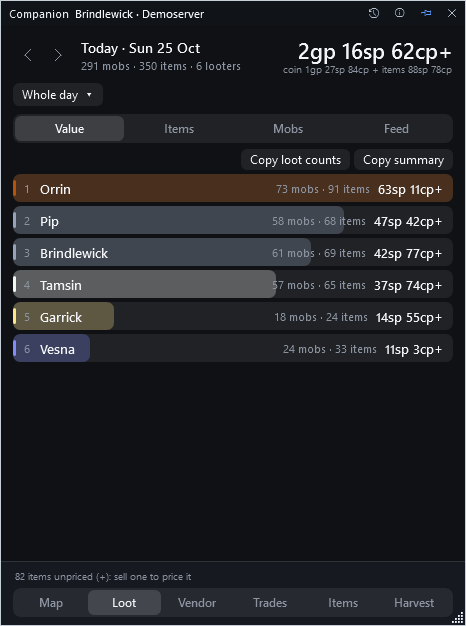
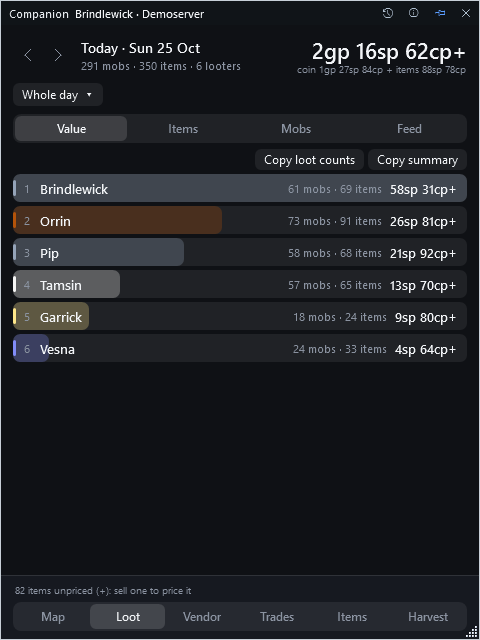
Coin: count a purse for its looter only when it wasn't split
A purse line carries d12 (the whole purse), d14 (npc_corpse = the looter kept it,
party_split = their autosplit divided it) and, for a split one, d15 (the ledger owner's
share). The group's coin stays every purse once, whole. A purse that wasn't split counts,
whole, for whoever looted it; a split one counts for no looter (they kept only part and the
ledger never says how much), and the owner's own share counts for the owner, even one who
looted nothing. Mobs and the community numbers keep the whole purse (what a monster drops).
Merged characters each get their own share. The feed and tooltips say when a purse was split.
Checked against a real day: the group total matched an independent calculation exactly.

diff --git a/src/MnMCompanion.Core/Loot/LootSummary.cs b/src/MnMCompanion.Core/Loot/LootSummary.cs
@@ -6,15 +6,21 @@ namespace MnMCompanion.Loot;
 /// <summary>An item and how many of it.</summary>
 public sealed record ItemCount(string Item, int Count);
 
-/// <summary>What one looter took: <see cref="Items"/> items, the <see cref="Copper"/> in the purses they looted, and from how many mobs.</summary>
-public sealed record PlayerLoot(string Who, bool You, int Mobs, int Items, long Copper, IReadOnlyList<ItemCount> Taken);
+/// <summary>
+/// What one person took: <see cref="Items"/> items from how many mobs, and the coin counted for them, <see cref="Copper"/>: the purses they looted that
+/// were not divided (whole), plus, for a ledger's owner, the shares of divided purses that reached them (<see cref="Received"/>). A divided purse is not
+/// counted for whoever looted it, since they kept only part and the ledger never says how much. <see cref="Purses"/> is the whole of every purse they
+/// looted and <see cref="SplitPurses"/> how many of those were divided.
+/// </summary>
+public sealed record PlayerLoot(string Who, bool You, int Mobs, int Items, long Copper, IReadOnlyList<ItemCount> Taken,
+    long Purses = 0, long Received = 0, int SplitPurses = 0);
 
 /// <summary>
 /// One corpse one looter took from: the coin and the items, which the ledger gives in separate rows. <see cref="Source"/> is as
 /// the ledger names it ("a Dustrend legionary", "your corpse"); <see cref="Mob"/> is false for a player's corpse.
 /// </summary>
 public sealed record LootedCorpse(string Who, bool You, string Source, bool Mob, DateTime Start, int Items, long Copper, long Split,
-    IReadOnlyList<ItemCount>? Taken = null, string Zone = "");
+    IReadOnlyList<ItemCount>? Taken = null, string Zone = "", bool Shared = false);
 
 /// <summary>One item and who took how many of it.</summary>
 public sealed record ItemTakers(string Item, int Count, IReadOnlyList<(string Who, int Count)> By);
@@ -51,10 +57,10 @@ public static class LootSummary
             v.Last = e.Time;
             v.You |= e.You;
             if (e.Kind == LootKind.Item) { v.Items += e.Count; v.Taken[e.Item] = v.Taken.GetValueOrDefault(e.Item) + e.Count; }
-            else { v.HasPurse = true; v.Copper += e.Copper; v.Split += e.Split; }
+            else { v.HasPurse = true; v.Copper += e.Copper; v.Split += e.Split; v.Shared |= e.Shared; }
         }
         return visits.Select(v => new LootedCorpse(v.Who, v.You, v.Source, IsMob(v.Source), v.Start, v.Items, v.Copper, v.Split,
-            v.Taken.Select(t => new ItemCount(t.Key, t.Value)).ToList(), v.Zone)).ToList();
+            v.Taken.Select(t => new ItemCount(t.Key, t.Value)).ToList(), v.Zone, v.Shared)).ToList();
     }
 
     /// <summary>Your own corpse and other players' ("Brom's corpse") aren't mobs.</summary>
@@ -64,7 +70,7 @@ public static class LootSummary
     private sealed class Visit
     {
         public string Who = "", Source = "", Zone = "";
-        public bool You, HasPurse;
+        public bool You, HasPurse, Shared;
         public DateTime Start, Last;
         public int Items;
         public long Copper, Split;
@@ -106,18 +112,32 @@ public static class LootSummary
                 p.Items += e.Count;
                 p.Taken[e.Item] = p.Taken.GetValueOrDefault(e.Item) + e.Count;
             }
-            else p.Copper += e.Copper;
+            else
+            {
+                // A purse the looter's autosplit divided isn't theirs whole: it counts for the group, not for them
+                p.Purses += e.Copper;
+                if (e.Shared) p.SplitPurses++;
+                else p.Kept += e.Copper;
+            }
+            // The only share of a divided purse a ledger shows is its owner's own: that is what they were handed
+            foreach (var share in e.Shares ?? Array.Empty<ShareTo>())
+            {
+                if (!map.TryGetValue(share.Owner, out var owner)) map[share.Owner] = owner = new Looter();
+                owner.You = true;
+                owner.Received += share.Copper;
+            }
         }
-        return map.Select(kv => new PlayerLoot(kv.Key, kv.Value.You, kv.Value.Mobs, kv.Value.Items, kv.Value.Copper,
-                kv.Value.Taken.OrderByDescending(t => t.Value).ThenBy(t => t.Key, StringComparer.OrdinalIgnoreCase).Select(t => new ItemCount(t.Key, t.Value)).ToList()))
+        return map.Select(kv => new PlayerLoot(kv.Key, kv.Value.You, kv.Value.Mobs, kv.Value.Items, kv.Value.Kept + kv.Value.Received,
+                kv.Value.Taken.OrderByDescending(t => t.Value).ThenBy(t => t.Key, StringComparer.OrdinalIgnoreCase).Select(t => new ItemCount(t.Key, t.Value)).ToList(),
+                kv.Value.Purses, kv.Value.Received, kv.Value.SplitPurses))
             .OrderByDescending(p => p.Mobs).ThenByDescending(p => p.Items).ThenByDescending(p => p.Copper).ThenBy(p => p.Who, StringComparer.OrdinalIgnoreCase).ToList();
     }
 
     private sealed class Looter
     {
         public bool You;
-        public int Mobs, Items;
-        public long Copper;
+        public int Mobs, Items, SplitPurses;
+        public long Kept, Purses, Received;
         public readonly Dictionary<string, int> Taken = new(StringComparer.OrdinalIgnoreCase);
     }
 
@@ -155,7 +175,7 @@ public static class LootSummary
     public static string Describe(LootEvent e) => e.Kind switch
     {
         LootKind.Item => $"[{e.Item}]{(e.Count > 1 ? $" x{e.Count}" : "")}  from {e.Source}",
-        _ => $"{Coin(e.Copper)}  from {e.Source}{(e.Split > 0 ? $"  (split {Coin(e.Split)})" : "")}",
+        _ => $"{Coin(e.Copper)}  from {e.Source}{(e.Shared ? (e.Split > 0 ? $"  (split; your share {Coin(e.Split)})" : "  (split)") : "")}",
     };
 
     /// <summary>One item as a single line for the clipboard: "Rusty Iron Mace ×3  ·  looted by 2 people (Fenwick 2, Aldric)  ·  ~1sp each  ·  ~3sp".</summary>

diff --git a/tests/MnMCompanion.Tests/CoinSplitTests.cs b/tests/MnMCompanion.Tests/CoinSplitTests.cs
@@ -1,0 +1,103 @@
+using MnMCompanion.Ledger;
+using MnMCompanion.Loot;
+using static MnMCompanion.Tests.Fixture;
+
+namespace MnMCompanion.Tests;
+
+/// <summary>
+/// Who a coin purse counts for. A purse the looter kept (<c>npc_corpse</c>) is theirs whole. One the looter's autosplit divided (<c>party_split</c>)
+/// is not: they kept only part, and a ledger shows only its own owner's share (<c>d15</c>), never anyone else's. The group's total is always the
+/// whole purse (<c>d12</c>), counted once.
+/// </summary>
+public class CoinSplitTests
+{
+    private static readonly DateTime T = new(2026, 10, 25, 12, 0, 0, DateTimeKind.Local);
+    private static readonly DateOnly Day = DateOnly.FromDateTime(T);
+
+    private static List<LootEvent> Rows(params string[] rows) => LootExtractor.Extract(Parse(File(rows), LedgerFileKind.Social));
+
+    [Fact]
+    public void A_purse_that_was_not_split_is_counted_whole_for_whoever_looted_it()
+    {
+        var day = LootDay.Of(Day, Rows(Purse(T, "Brom", "Aldric", "a rat", "0,0,0,50")));
+
+        Assert.Equal(50, day.Members.Single(m => m.Name == "Brom").Copper);
+        Assert.Equal(50, day.Totals.Copper);
+        Assert.False(Assert.Single(day.Events).Shared);
+    }
+
+    [Fact]
+    public void A_split_purse_is_not_counted_for_its_looter_but_the_group_still_earned_all_of_it()
+    {
+        var day = LootDay.Of(Day, Rows(Purse(T, "Brom", "Aldric", "a rat", "0,0,1,0", split: "0,0,0,15")));   // 1 silver = 100 copper, your share 15
+
+        var brom = day.Members.Single(m => m.Name == "Brom");
+        Assert.Equal(0, brom.Copper);               // not counted for him: he kept only part and the ledger doesn't say how much
+        Assert.Equal(1, brom.SplitPurses);
+        Assert.Equal(100, brom.Purses);             // but the purses he looted held 100
+        Assert.Equal(15, brom.Split);               // and 15 of them reached you
+        Assert.Equal(100, day.Totals.Copper);       // what the group earned: the whole purse (d12)
+        Assert.Equal(100, day.Total);
+        Assert.Equal(15, day.Totals.Share);
+        Assert.True(Assert.Single(day.Events).Shared);
+    }
+
+    [Fact]
+    public void Your_share_of_a_split_purse_is_counted_for_you_even_if_you_looted_nothing()
+    {
+        var day = LootDay.Of(Day, Rows(Purse(T, "Brom", "Aldric", "a rat", "0,0,1,0", split: "0,0,0,15")));
+
+        var you = day.Members.Single(m => m.Name == "Aldric");
+        Assert.True(you.You);
+        Assert.Equal(15, you.Copper);
+        Assert.Equal(15, you.Received);
+        Assert.Equal(0, you.Mobs);
+    }
+
+    [Fact]
+    public void Your_own_whole_purses_and_your_shares_add_up_and_the_ranking_follows_what_was_counted()
+    {
+        var day = LootDay.Of(Day, Rows(
+            Purse(T, "Brom", "Aldric", "a rat", "0,0,1,0", split: "0,0,0,15"),
+            Purse(T.AddSeconds(30), "Aldric", "Aldric", "a rat", "0,0,0,30"),
+            Purse(T.AddSeconds(60), "Pip", "Aldric", "a rat", "0,0,0,40")));
+
+        Assert.Equal(45, day.Members.Single(m => m.Name == "Aldric").Copper);   // 30 kept whole + 15 share
+        Assert.Equal(["Aldric", "Pip", "Brom"], day.Members.Select(m => m.Name));   // 45, 40, 0: by what was counted for each
+        Assert.Equal(170, day.Totals.Copper);                                      // 100 + 30 + 40, each purse once
+    }
+
+    [Fact]
+    public void A_mobs_coin_and_a_looters_coin_a_mob_are_the_whole_purse_whoever_kept_it()
+    {
+        var day = LootDay.Of(Day, Rows(Purse(T, "Brom", "Aldric", "a rat", "0,0,1,0", split: "0,0,0,15")));
+
+        Assert.Equal(100, day.Mobs.Single().Copper);
+        Assert.Equal(100, day.Members.Single(m => m.Name == "Brom").CopperPerMob);
+    }
+
+    [Fact]
+    public void When_two_of_your_characters_saw_the_same_split_purse_each_is_credited_its_own_share_and_the_purse_counts_once()
+    {
+        var aldric = Rows(Purse(T, "Brom", "Aldric", "a rat", "0,0,1,0", split: "0,0,0,15"));
+        var wendell = Rows(Purse(T, "Brom", "Wendell", "a rat", "0,0,1,0", split: "0,0,0,20"));
+
+        var day = LootDay.Of(Day, LootMerge.Combine([aldric, wendell]));
+
+        Assert.Equal(15, day.Members.Single(m => m.Name == "Aldric").Copper);
+        Assert.Equal(20, day.Members.Single(m => m.Name == "Wendell").Copper);
+        Assert.Equal(0, day.Members.Single(m => m.Name == "Brom").Copper);
+        Assert.Equal(100, day.Totals.Copper);   // one purse, not two
+        Assert.Equal(35, day.Totals.Share);
+    }
+
+    [Fact]
+    public void The_feed_says_when_a_purse_was_split_and_what_your_share_was()
+    {
+        var split = Assert.Single(Rows(Purse(T, "Brom", "Aldric", "a rat", "0,0,1,0", split: "0,0,0,15")));
+        var whole = Assert.Single(Rows(Purse(T, "Brom", "Aldric", "a rat", "0,0,0,50")));
+
+        Assert.Contains("(split; your share 15cp)", LootSummary.Describe(split));
+        Assert.DoesNotContain("split", LootSummary.Describe(whole));
+    }
+}

diff --git a/src/MnMCompanion/LootPanel.cs b/src/MnMCompanion/LootPanel.cs
@@ -136,7 +136,7 @@ internal sealed class LootPanel : Border, IMiniPage
         _title.Text = day == Today ? $"Today · {day.ToString("ddd d MMM", CultureInfo.CurrentCulture)}" : day.ToString("ddd d MMM yyyy", CultureInfo.CurrentCulture);
         _sub.Text = $"{Plural(totals.Mobs, "mob")} · {Plural(totals.Items, "item")} · {Plural(d.Members.Count, "looter")}";
         _big.Text = LootSummary.Worth(d.Total, d.Approximate, d.Unpriced > 0);
-        _big.ToolTip = $"Coin {LootSummary.Coin(totals.Copper)} plus what a vendor would pay for the items: {LootSummary.Worth(d.ItemValue, d.Approximate, d.Unpriced > 0)}" + Environment.NewLine +
+        _big.ToolTip = $"Coin {LootSummary.Coin(totals.Copper)} (every purse counted once, whole) plus what a vendor would pay for the items: {LootSummary.Worth(d.ItemValue, d.Approximate, d.Unpriced > 0)}" + Environment.NewLine +
                        $"{d.Priced:N0} items priced from your vendor sales, {d.Estimated:N0} valued by their family (~), {d.Unpriced:N0} with no known price (not counted, +)" +
                        (totals.Share > 0 ? Environment.NewLine + $"{LootSummary.Coin(totals.Share)} of the purses reached you as splits" : "");
         _caption.Text = $"coin {LootSummary.Coin(totals.Copper)} + items {LootSummary.Worth(d.ItemValue, d.Approximate, false)}";
@@ -211,7 +211,10 @@ internal sealed class LootPanel : Border, IMiniPage
                 m.Unpriced > 0 ? $"{Plural(m.Unpriced, "item")} with no known price are not counted" : "",
                 m.Estimated > 0 ? $"{Plural(m.Estimated, "item")} valued by their family (~)" : "",
                 m.Mobs > 0 ? $"{LootSummary.Coin((long)m.CopperPerMob)} coin a mob, {m.ItemsPerMob:0.0} items a mob" : "",
-                m.Split > 0 ? $"{LootSummary.Coin(m.Split)} of their purses reached you" : "", "Click for their items and mobs",
+                m.Split > 0 ? $"{LootSummary.Coin(m.Split)} of their purses reached you" : "",
+                m.Received > 0 ? $"{LootSummary.Coin(m.Received)} reached you as splits (counted for you)" : "",
+                m.SplitPurses > 0 ? $"{Plural(m.SplitPurses, "purse")} they looted {(m.SplitPurses == 1 ? "was" : "were")} split: what each member got isn't in the ledger, so that coin isn't counted for them" : "",
+                "Click for their items and mobs",
             }.Where(s => s.Length > 0));
             _body.Children.Add(Row(++rank, m.Name, $"{m.Mobs} mobs · {m.Items} items", LootSummary.Worth(m.Total, m.Estimated > 0, m.Unpriced > 0), BrushOf(m),
                 (valueless ? m.Mobs : m.Total) / top, tip, () => _openBreakdown(Day, member.Name, ActiveSession())));
@@ -273,7 +276,7 @@ internal sealed class LootPanel : Border, IMiniPage
             if (e.Kind == LootKind.Item) row.Inlines.Add(new Run($"[{e.Item}]" + (e.Count > 1 ? $" ×{e.Count}" : "")) { Foreground = Palette.Gold });
             else row.Inlines.Add(new Run(LootSummary.Coin(e.Copper)) { Foreground = Palette.Heal });
             row.Inlines.Add(new Run($"  ← {e.Source}") { Foreground = Palette.Muted });
-            if (e.Kind == LootKind.Coin && e.Split > 0) row.Inlines.Add(new Run($"  (your split {LootSummary.Coin(e.Split)})") { Foreground = Palette.Muted });
+            if (e.Kind == LootKind.Coin && e.Shared) row.Inlines.Add(new Run(e.Split > 0 ? $"  (split · your share {LootSummary.Coin(e.Split)})" : "  (split)") { Foreground = Palette.Muted });
             _body.Children.Add(row);
         }
         if (events.Count > FeedRows) _body.Children.Add(Line($"{events.Count - FeedRows} older lines are in the ledger.", Palette.Muted));

diff --git a/src/MnMCompanion.Core/Loot/LootBreakdown.cs b/src/MnMCompanion.Core/Loot/LootBreakdown.cs
@@ -39,17 +39,21 @@ public sealed record ItemWorth(string Item, int Count, ItemValue Value, IReadOnl
 }
 
 /// <summary>
-/// One looter on a day: <see cref="Mobs"/> corpses, <see cref="Items"/> taken, the <see cref="Copper"/> in the purses they
-/// looted, and the share of those purses that reached the ledger's owner (<see cref="Split"/>). <see cref="Class"/> and
-/// <see cref="Level"/> come from the ledger (empty / 0 when it never named them).
+/// One person on a day: <see cref="Mobs"/> corpses, <see cref="Items"/> taken, and the coin counted for them, <see cref="Copper"/>: the purses they
+/// looted that were not divided, whole, plus (for a ledger's owner) the shares that reached them (<see cref="Received"/>). A divided purse is
+/// not counted for its looter: they kept only part and the ledger doesn't say how much (<see cref="SplitPurses"/> of them looted).
+/// <see cref="Purses"/> is the whole of every purse they looted, and <see cref="Split"/> the part of those that reached the ledger's owner.
+/// <see cref="Class"/> and <see cref="Level"/> come from the ledger (empty / 0 when it never named them).
 /// </summary>
 public sealed record LootMember(string Name, bool You, string Class, int Level, int Mobs, int Items, long Copper, long Split,
     IReadOnlyList<MemberItem> Taken, IReadOnlyList<MemberMob> MobList, DateTime First, DateTime Last,
-    long ItemValue = 0, int Priced = 0, int Estimated = 0, int Unpriced = 0)
+    long ItemValue = 0, int Priced = 0, int Estimated = 0, int Unpriced = 0, long Purses = 0, long Received = 0, int SplitPurses = 0)
 {
-    /// <summary>The purses they looted plus what a vendor would pay for the items (the priced and the estimated ones; <see cref="Unpriced"/> add nothing).</summary>
+    /// <summary>The coin counted for them plus what a vendor would pay for the items (the priced and the estimated ones; <see cref="Unpriced"/> add nothing).</summary>
     public long Total => Copper + ItemValue;
-    public double CopperPerMob => Mobs > 0 ? (double)Copper / Mobs : 0;
+
+    /// <summary>What the purses they looted held, a mob's worth on average (the whole purse, whoever kept it).</summary>
+    public double CopperPerMob => Mobs > 0 ? (double)Purses / Mobs : 0;
     public double ItemsPerMob => Mobs > 0 ? (double)Items / Mobs : 0;
 
     /// <summary>"Fighter 28", "lvl 28", "Fighter" or "".</summary>
@@ -122,7 +126,8 @@ public sealed record LootDay(DateOnly Day, LootTotals Totals, IReadOnlyList<Loot
             int unpriced = taken.Where(t => !t.Value.Known).Sum(t => t.Count);
             members.Add(new LootMember(p.Who, p.You, named is null || named.Class.Length == 0 ? "" : GameClasses.NameOf(named.Class), named?.Level ?? 0,
                 p.Mobs, p.Items, p.Copper, mine.Where(e => e.Kind == LootKind.Coin).Sum(e => e.Split), taken, mobList,
-                mine.Count == 0 ? default : mine.Min(e => e.Time), mine.Count == 0 ? default : mine.Max(e => e.Time), itemValue, priced, estimated, unpriced));
+                mine.Count == 0 ? default : mine.Min(e => e.Time), mine.Count == 0 ? default : mine.Max(e => e.Time), itemValue, priced, estimated, unpriced,
+                p.Purses, p.Received, p.SplitPurses));
         }
         members = members.OrderByDescending(m => m.Total).ThenByDescending(m => m.Copper).ThenByDescending(m => m.Mobs).ThenBy(m => m.Name, comparer).ToList();
 

diff --git a/src/MnMCompanion.Core/Loot/LootEvent.cs b/src/MnMCompanion.Core/Loot/LootEvent.cs
@@ -2,6 +2,9 @@ using MnMCompanion.Ledger;
 
 namespace MnMCompanion.Loot;
 
+/// <summary>The part of a divided purse that reached one ledger owner (a character of the player's), as that owner's ledger shows it.</summary>
+public sealed record ShareTo(string Owner, long Copper);
+
 /// <summary>Item = one item taken off a corpse; Coin = a purse.</summary>
 public enum LootKind : byte { Item, Coin }
 
@@ -10,11 +13,13 @@ public enum LootKind : byte { Item, Coin }
 /// this is); <see cref="Source"/> what was looted ("a Dustrend legionary", "your corpse"). For an item <see cref="Item"/> and
 /// <see cref="Count"/> say what; for coin <see cref="Copper"/> is the whole purse and <see cref="Split"/> the share the
 /// ledger's owner received of it (0 when there was none). <see cref="Class"/> is the looter's class code ("ftr") and
-/// <see cref="Level"/> their level, as the ledger gives them.
+/// <see cref="Level"/> their level, as the ledger gives them. For a purse, <see cref="Copper"/> is the whole purse (what the group earned from it) and
+/// <see cref="Shared"/> says the looter's autosplit divided it among the group, so the looter did not keep it all; <see cref="Shares"/> is what the
+/// ledger shows of the division: the share of each ledger owner who saw it. What the other members got is never in a ledger.
 /// </summary>
 public sealed record LootEvent(
     DateTime Time, LootKind Kind, string Who, bool You, string Source, string Item, int Count, long Copper, long Split,
-    string Zone = "", string Class = "", int Level = 0, string ItemId = "")
+    string Zone = "", string Class = "", int Level = 0, string ItemId = "", bool Shared = false, IReadOnlyList<ShareTo>? Shares = null)
 {
     public DateOnly Day => DateOnly.FromDateTime(Time);
 }
@@ -65,6 +70,11 @@ public static class LootExtractor
         // d11 counts ten copper to a silver and is wrong; d12 is the coin as digits, a hundred to the next coin
         long purse = LedgerText.Packed(r.Text("d12"));
         var source = r.Text("d13") is { Length: > 0 } s ? s : r.Name;
-        return purse <= 0 ? null : new LootEvent(r.Time, LootKind.Coin, r.Actor, r.ByOwner, source, "", 0, purse, LedgerText.Packed(r.Text("d15")), r.Zone, r.Class, r.Level);
+        // d14 says whether the looter's autosplit divided the purse among the group ("party_split") or the looter kept it whole ("npc_corpse");
+        // d15 is the ledger owner's share of a divided one. What the others got is not in the ledger.
+        long share = LedgerText.Packed(r.Text("d15"));
+        bool shared = r.Text("d14").Equals("party_split", StringComparison.OrdinalIgnoreCase);
+        return purse <= 0 ? null : new LootEvent(r.Time, LootKind.Coin, r.Actor, r.ByOwner, source, "", 0, purse, share, r.Zone, r.Class, r.Level, "",
+            shared, share > 0 ? new[] { new ShareTo(r.Owner, share) } : null);
     }
 }

diff --git a/src/MnMCompanion/LootHistoryPage.xaml.cs b/src/MnMCompanion/LootHistoryPage.xaml.cs
@@ -466,7 +466,7 @@ public partial class LootHistoryPage : UserControl
             new("Player", 0, m => m.ClassLevel.Length > 0 ? $"{m.Name} · {m.ClassLevel}" : m.Name, m => m.Name, Right: false),
             new("Mobs", 56, m => $"{m.Mobs:N0}", m => m.Mobs, Tip: "Corpses they took loot from"),
             new("Items", 56, m => $"{m.Items:N0}", m => m.Items),
-            new("Coin", 100, m => LootSummary.Coin(m.Copper), m => m.Copper, Tip: "In the purses they looted"),
+            new("Coin", 100, m => LootSummary.Coin(m.Copper), m => m.Copper, Tip: "Coin counted for them: the purses they looted that weren't split, whole, plus (for you) your share of split purses"),
             new("Items worth", 106, m => m.ItemValue > 0 || m.Unpriced > 0 ? LootSummary.Worth(m.ItemValue, m.Estimated > 0, m.Unpriced > 0) : "—", m => m.ItemValue,
                 Tip: "What a vendor would pay for their items. ~ = some valued by their family, + = some with no known price (not counted)"),
             new("Total", 106, m => LootSummary.Worth(m.Total, m.Estimated > 0, m.Unpriced > 0), m => m.Total, Tip: "Coin plus items worth"),
@@ -530,7 +530,7 @@ public partial class LootHistoryPage : UserControl
     {
         var all = events.OrderByDescending(e => e.Time).ToList();
         var rows = all.Take(LogRows).Select(e => new LogRow(e.Time, e.Who,
-            e.Kind == LootKind.Item ? $"[{e.Item}]" + (e.Count > 1 ? $" ×{e.Count}" : "") : LootSummary.Coin(e.Copper) + (e.Split > 0 ? $"  (your split {LootSummary.Coin(e.Split)})" : ""),
+            e.Kind == LootKind.Item ? $"[{e.Item}]" + (e.Count > 1 ? $" ×{e.Count}" : "") : LootSummary.Coin(e.Copper) + (e.Shared ? (e.Split > 0 ? $"  (split · your share {LootSummary.Coin(e.Split)})" : "  (split)") : ""),
             e.Source, e.Kind == LootKind.Item ? Palette.Text : Palette.Heal)).ToList();
         var table = Table.Build("loot-log", rows, new Col<LogRow>[]
         {

diff --git a/src/MnMCompanion.Core/Loot/LootMerge.cs b/src/MnMCompanion.Core/Loot/LootMerge.cs
@@ -35,7 +35,7 @@ public static class LootMerge
 
     /// <summary>
     /// The same event as several characters saw it. The looter's own ledger calls the class "None" and the others give the real one, so the
-    /// real one is kept; it is "you" if it was any of theirs; and the purse shares add up, since each character was handed its own.
+    /// real one is kept; it is "you" if it was any of theirs; and the purse shares add up (each character is handed its own, and each is kept as its own's).
     /// </summary>
     private static LootEvent One(List<LootEvent> seen)
     {
@@ -44,6 +44,8 @@ public static class LootMerge
         {
             You = seen.Any(e => e.You),
             Split = seen.Sum(e => e.Split),
+            Shared = seen.Any(e => e.Shared),
+            Shares = seen.SelectMany(e => e.Shares ?? Array.Empty<ShareTo>()).GroupBy(s => s.Owner, StringComparer.OrdinalIgnoreCase).Select(g => g.First()).ToList() is { Count: > 0 } shares ? shares : null,
             Zone = seen.Select(e => e.Zone).FirstOrDefault(z => z.Length > 0) ?? "",
             Level = seen.Max(e => e.Level),
             ItemId = seen.Select(e => e.ItemId).FirstOrDefault(z => z.Length > 0) ?? "",

diff --git a/tests/MnMCompanion.Tests/Fixture.cs b/tests/MnMCompanion.Tests/Fixture.cs
@@ -27,7 +27,10 @@ internal static class Fixture
 
     /// <summary>A purse looted (act_14); <paramref name="coin"/> as "pp,gp,sp,cp", <paramref name="split"/> the owner's share the same way.</summary>
     public static string Purse(DateTime when, string looter, string owner, string mob, string coin, string split = "0,0,0,0", string cls = "ftr", int level = 30)
-        => Row("act_14", "name_" + B64(mob), new { d11 = 1, d12 = B64(coin), d13 = B64(mob), d14 = B64("party_split"), d15 = B64(split) }, when, looter, owner, cls, level);
+        => Row("act_14", "name_" + B64(mob), split == "0,0,0,0"
+            ? new { d11 = 1, d12 = B64(coin), d13 = B64(mob), d14 = B64("npc_corpse"), d15 = "" }      // kept whole by whoever looted it
+            : new { d11 = 1, d12 = B64(coin), d13 = B64(mob), d14 = B64("party_split"), d15 = B64(split) },   // divided; the owner's share
+            when, looter, owner, cls, level);
 
     /// <summary>An item sold to a vendor (act_24); <paramref name="coin"/> is the words the game writes for the whole stack.</summary>
     public static string Sale(DateTime when, string owner, string item, int count, string coin)

diff --git a/README.md b/README.md
@@ -322,8 +322,17 @@ purse from one kind of monster, looted within six seconds of each other, as one 
 
 ### What coin is worth
 
-100 copper make 1 silver, 100 silver make 1 gold, 100 gold make 1 platinum. A coin purse is split between group members by the game; the
-ledger only records *your* share of other players' purses, so Companion shows exactly that as "your splits."
+100 copper make 1 silver, 100 silver make 1 gold, 100 gold make 1 platinum.
+
+**Who a coin purse counts for.** When someone loots coin, the game may *split* it between the group (their autosplit). Each purse line in the
+ledger says which: a purse the looter kept has no split, and one that was divided is marked as split and carries **your** share of it.
+
+- **The group's coin** is every purse counted once, at its whole value. That's the "coin" figure at the top, and the monster's coin on the Mobs tab.
+- **A purse that wasn't split** counts, whole, for whoever looted it.
+- **A purse that was split** does **not** count for whoever looted it: they kept only part, and the ledger never says how much. Instead
+  *your* share counts for **you** (it's the only share a ledger ever shows), even if you looted nothing. What the other members got is unknown, so
+  none of it is counted for them. The row's tooltip says how many split purses a player looted.
+- The *Value* ranking, the *Coin* column and "coin per player" use those counted amounts. "Your splits" is your shares added up.
 
 ### What an item is worth
 

diff --git a/docs/ledger-notes.md b/docs/ledger-notes.md
@@ -60,6 +60,11 @@ of a split. There is no combat, damage or chat.
   (`actor = owner`). Count the Character copy and skip the Social twin. The database keeps both; filter on `kind` / `actor <> owner`.
 - **Own purses carry no split.** The owner's own purses in a party are always `npc_corpse` with the whole amount. The owner's share of
   *other players'* purses is in their `party_split` rows' `d15`.
+- **Splits are in the purse row, not a row after it.** A purse is one row: `d12` the whole purse, `d14` `npc_corpse` (the looter kept it) or
+  `party_split` (the looter's autosplit divided it), and for a split one `d15` this ledger's owner's share (checked on 3,703 split purses: no
+  separate line follows). The share is not total ÷ party size (the copper seems to be divided and whole silver coins are not), and nobody
+  else's share is ever shown. So: group coin = every `d12` once; a kept purse counts whole for its looter; a split one counts for no looter,
+  and its `d15` counts for the ledger's owner.
 - **Archive and dated files can overlap.** On 2026-10-24 they did not (zero repeated rows), but an earlier check found overlap, so
   anything built on the table should count a row once. The database already does (one row per server, character, file kind and exact row).
 - **A corpse is inferred.** One looter's rows from one mob name, each within six seconds of the last, a second purse starting another
